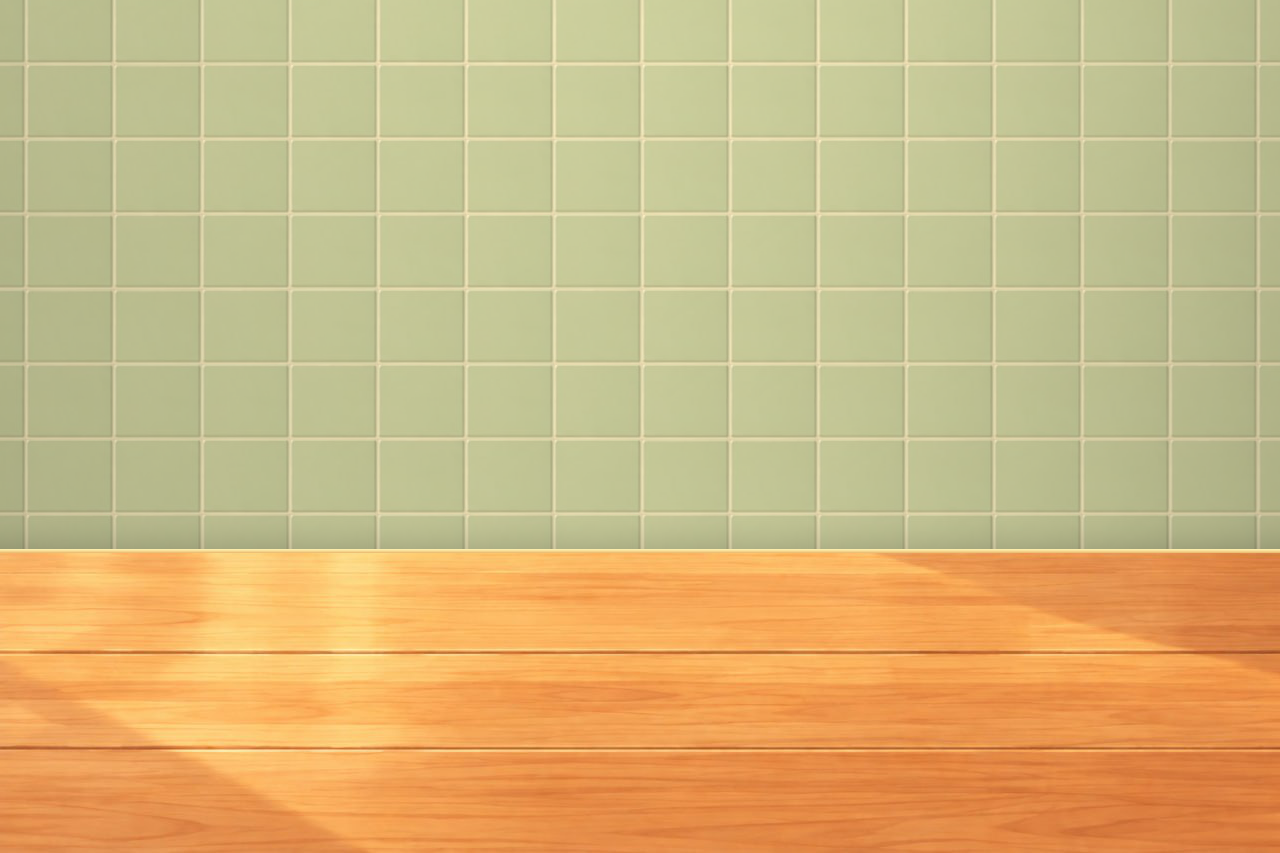
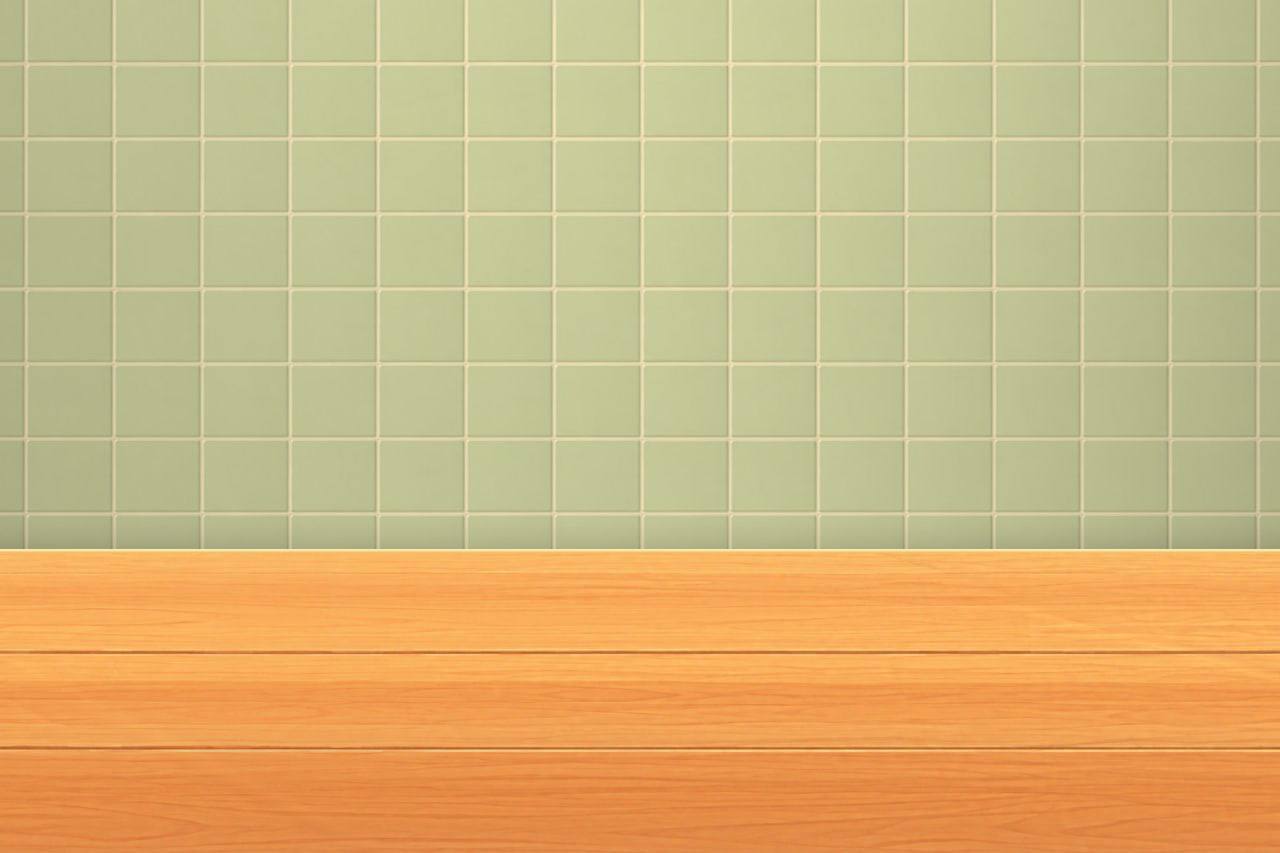
Лист рецепта: смешной лор, цитата без кавычки; стол в выборе блюда без теней
- новый лор салата, пиццы и Том Яма — с шутками про лишние ингредиенты;
- убрана декоративная кавычка у цитаты философа, текст сдвинут к полоске;
- на столе экрана выбора убраны солнечные лучи, тени и следы их краёв (gen_dish_wall.py).

diff --git a/Assets/Scripts/Recipes.cs b/Assets/Scripts/Recipes.cs
@@ -124,8 +124,8 @@ namespace RecipeSlicer
             ReadyText = "Салат готов!",
             FailText = "Салат не готов!",
             Description = "Свежий овощной.\nПроще простого.",
-            Lore = "Говорят, первый салат придумал повар, которому было лень разжигать плиту. " +
-                   "С тех пор это блюдо для тех, кто ценит хруст и честность: только свежие овощи — и ни одной конфеты.",
+            Lore = "Учёные до сих пор спорят, кто придумал салат: диетолог или человек со сломанной плитой. " +
+                   "Одно известно точно — шоколад туда клали лишь однажды, и того повара больше никто не видел.",
             Stars = 1,
             Needed = new[]
             {
@@ -151,8 +151,8 @@ namespace RecipeSlicer
             ReadyText = "Пицца готова!",
             FailText = "Пицца не готова!",
             Description = "Сырная, с грибами.\nАнанас? Подумай.",
-            Lore = "Пицца родом из Неаполя: когда-то её пекли для портовых рабочих, а теперь её любит весь мир. " +
-                   "Настоящий пиццайоло знает — ананасу здесь не место, и спорить об этом можно вечно.",
+            Lore = "Пицца родом из Неаполя, где на ананас на тесте смотрят так, будто ты оскорбил чью-то бабушку. " +
+                   "Сыр, томаты, грибы — классика. Клубника — это уже десерт, и нет, это не «фьюжн».",
             Stars = 2,
             Needed = new[]
             {
@@ -179,8 +179,8 @@ namespace RecipeSlicer
             ReadyText = "Том Ям готов!",
             FailText = "Том Ям не готов!",
             Description = "Острый тайский суп.\nКартошку не клади!",
-            Lore = "Кисло-острый суп из Таиланда, где в каждой ложке — лемонграсс, лайм и креветки. " +
-                   "Тайские повара уверены: от хорошего Том Яма плачут — но от остроты, а не от картошки в тарелке.",
+            Lore = "Том Ям сначала обжигает язык, потом душу, а потом просит добавки. " +
+                   "Тайцы варят его веками и ни разу не додумались положить туда картошку. Не будь первым.",
             Stars = 3,
             Needed = new[]
             {

diff --git a/Tools/ArtGen/gen_dish_wall.py b/Tools/ArtGen/gen_dish_wall.py
@@ -7,6 +7,15 @@ src, out = sys.argv[1], sys.argv[2]
 im = np.asarray(Image.open(src).convert('RGB')).astype(np.float32)
 H, W, _ = im.shape
 TABLE = 549  # стена — до этой строки
+# Края теней и лучей на столе — отрезки от (x, y) до (x, y) исходного фона.
+SHADOW_EDGES = [
+    ((870, 556), (1280, 676)),  # тень справа
+    ((0, 667), (380, 853)),     # тень слева внизу
+    ((207, 556), (194, 645)),   # левый край светлого луча
+    ((380, 556), (372, 645)),   # правый край светлого луча
+]
+EDGE_BAND = 14
+SHADE_PASSES = [(10, 30), (4, 9)]  # размытие для поиска лучей на столе: поперёк и вдоль досок
 EDGE = 4     # ровная светлая кромка столешницы; ниже неё — стол из оригинала (его край неровный, 547…550)
 
 L = im.mean(2)
@@ -68,5 +77,31 @@ result[:TABLE] = wall
 # Кромка: светлая полоса с бликом сверху и чуть темнее к дереву.
 edge = np.array([[252, 236, 170], [250, 226, 156], [244, 210, 138], [236, 192, 118]], np.float32)
 result[TABLE:TABLE + EDGE] = edge[:, None, :]
+
+# Стол без солнечных лучей и теней: крупные пятна яркости (размытие сильнее вдоль досок) выравниваем
+# к обычной яркости своей строки — доски, их стыки и волокна дерева остаются.
+from scipy.ndimage import gaussian_filter
+top = TABLE + EDGE
+# Два прохода: крупный убирает сами пятна, мелкий — следы их краёв.
+for sy, sx in SHADE_PASSES:
+    table = result[top:]
+    low = np.stack([gaussian_filter(table[..., c], sigma=(sy, sx), mode='nearest') for c in range(3)], -1)
+    target = np.median(low, axis=1, keepdims=True)
+    result[top:] = table * target / np.maximum(low, 1.0)
+
+# Резкие края теней (прямые на исходном фоне) после выравнивания остаются тонкими линиями.
+# Волокна дерева идут вдоль строк, поэтому полосу вокруг края заполняем, протягивая каждую строку
+# от левого края полосы к правому.
+for (xa, ya), (xb, yb) in SHADOW_EDGES:
+    for y in range(max(ya, top), min(yb, H)):
+        x0 = int(round(xa + (xb - xa) * (y - ya) / (yb - ya)))
+        l, r = x0 - EDGE_BAND, x0 + EDGE_BAND
+        if r <= 2 or l >= W - 3:
+            continue
+        l, r = max(l, 2), min(r, W - 3)
+        left = result[y, l - 2:l + 1].mean(0)
+        right = result[y, r:r + 3].mean(0)
+        k = np.linspace(0.0, 1.0, r - l)[:, None]
+        result[y, l:r] = left * (1 - k) + right * k
 Image.fromarray(np.clip(result, 0, 255).astype(np.uint8)).save(out)
 print('saved', out)

diff --git a/Assets/Scripts/GameUI.cs b/Assets/Scripts/GameUI.cs
@@ -1072,20 +1072,17 @@ namespace RecipeSlicer
                     $"× {item.Count}", 34, MenuGreenText, TextAnchor.MiddleRight, FontStyle.Bold);
             }
 
-            // ── правило-шутка: цитата великого философа на светлой подложке с большой кавычкой
+            // ── правило-шутка: цитата великого философа на светлой подложке с зелёной полоской
             var quote = TopLeft(paper, 50f, 676f, 50f, 140f);
             Rounded(quote, QuoteBack, 18f);
             Rounded(Stretch(NewRect("Bar", quote), Vector2.zero, new Vector2(0f, 1f), new Vector2(0f, 12f), new Vector2(8f, -12f)), MenuGreen, 4f);
-            var mark = AddText(Place(NewRect("Mark", quote), new Vector2(0f, 1f), new Vector2(56f, -92f), new Vector2(80f, 110f)),
-                "“", 120, new Color(MenuGreen.r, MenuGreen.g, MenuGreen.b, 0.35f), TextAnchor.MiddleCenter, FontStyle.Bold);
-            mark.GetComponent<Shadow>().enabled = false;
-            MenuText(Stretch(NewRect("Intro", quote), new Vector2(0f, 1f), Vector2.one, new Vector2(100f, -46f), new Vector2(-24f, -10f)),
+            MenuText(Stretch(NewRect("Intro", quote), new Vector2(0f, 1f), Vector2.one, new Vector2(36f, -46f), new Vector2(-24f, -10f)),
                 RulesIntro, 26, MenuBrownText, TextAnchor.MiddleLeft, FontStyle.Italic);
-            var words = MenuText(Stretch(NewRect("Quote", quote), new Vector2(0f, 1f), Vector2.one, new Vector2(100f, -104f), new Vector2(-24f, -48f)),
+            var words = MenuText(Stretch(NewRect("Quote", quote), new Vector2(0f, 1f), Vector2.one, new Vector2(36f, -104f), new Vector2(-24f, -48f)),
                 RulesQuote, 38, MenuBrownText, TextAnchor.MiddleLeft, FontStyle.Bold);
             words.supportRichText = true;
             FitSingleLine(words, 38, 24);
-            MenuText(Stretch(NewRect("Author", quote), Vector2.zero, new Vector2(1f, 0f), new Vector2(100f, 6f), new Vector2(-28f, 40f)),
+            MenuText(Stretch(NewRect("Author", quote), Vector2.zero, new Vector2(1f, 0f), new Vector2(36f, 6f), new Vector2(-28f, 40f)),
                 RulesAuthor, 24, MenuGreenText, TextAnchor.MiddleRight, FontStyle.Italic);
 
             // ── кнопки
